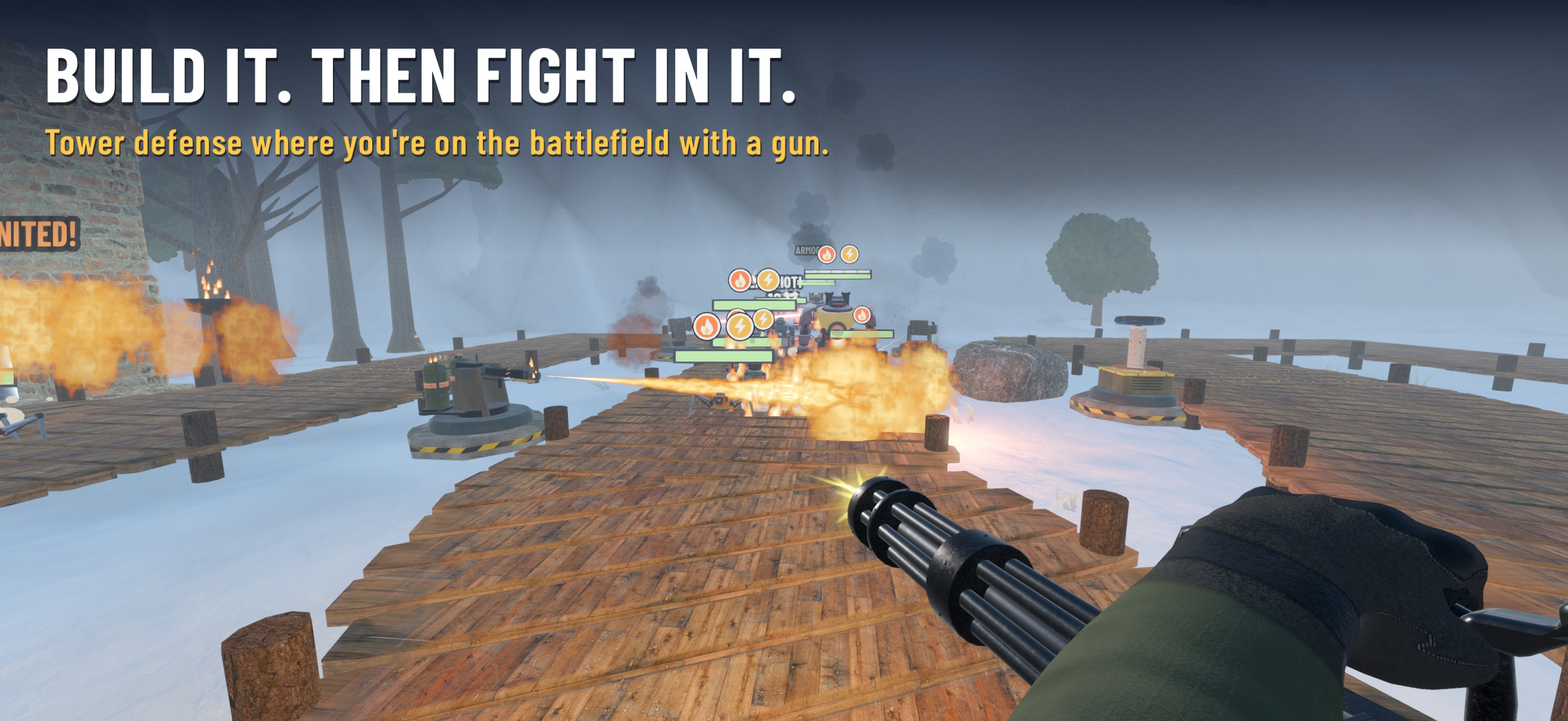
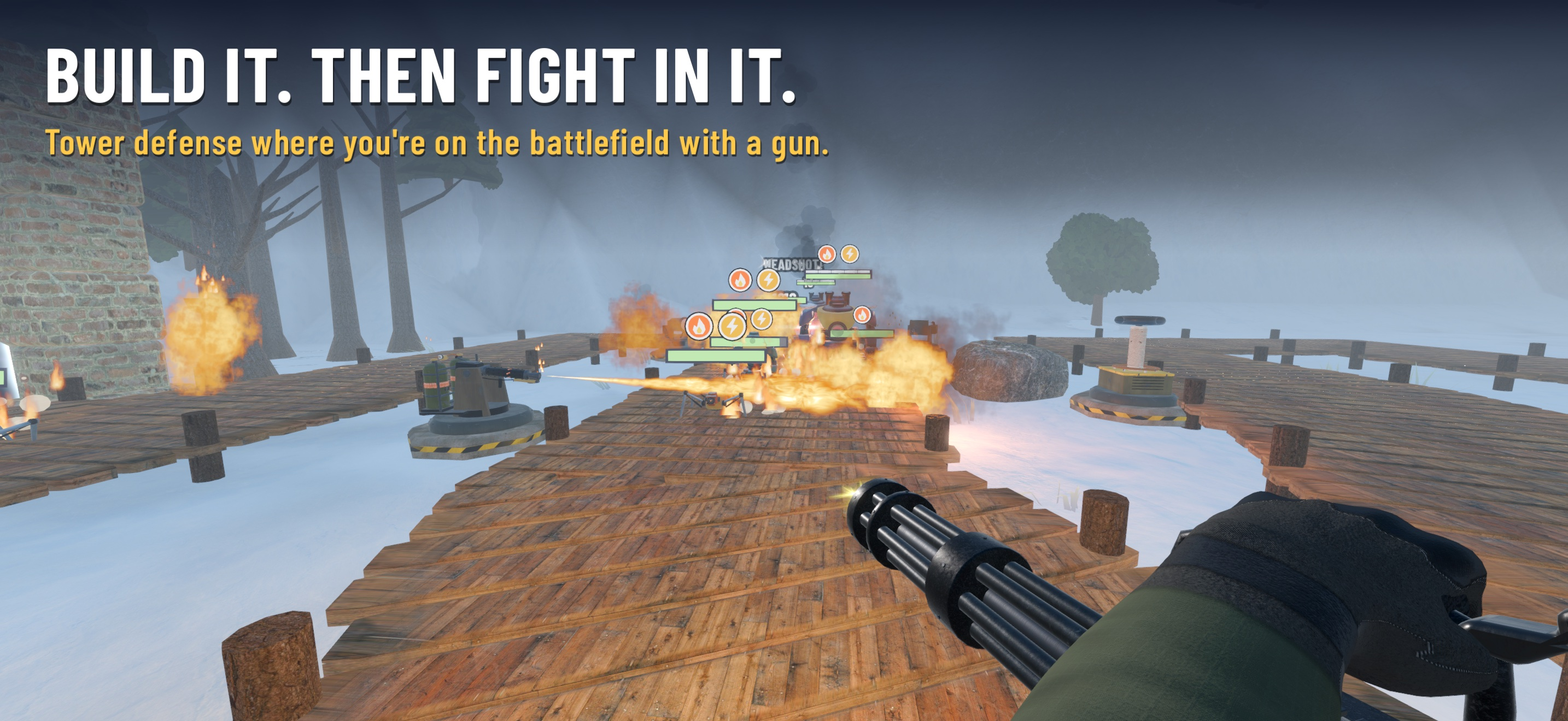
Press kit: gameplay stills with the HUD, and the new screenshot set (2 is the fight with the HUD on)

diff --git a/press/index.html b/press/index.html
@@ -62,31 +62,40 @@ video, .shots img { width: 100%; height: auto; display: block; border-radius: 10
 <figure><video src="keep.mp4" poster="keep_poster.jpg" controls playsinline preload="metadata"></video><figcaption>Keep: air strikes, artillery, Cryo Burst and the Missile Silo</figcaption></figure>
 </div>
 
+<h2>As you play it</h2>
+<p class="note">Real play on iPhone, the HUD and touch controls as players see them. Stills from the app previews, 1920×886.</p>
+<div class="shots">
+<figure><a href="play_road.jpg"><img src="play_road.jpg" alt="A crowd marching down the road into the turrets' fire, the HUD and touch controls on" loading="lazy"></a><figcaption>Your gun among the turrets as a crowd marches in</figcaption></figure>
+<figure><a href="play_javelin.jpg"><img src="play_javelin.jpg" alt="The Javelin's seeker locked onto a Siege Colossus" loading="lazy"></a><figcaption>The Javelin's seeker locked onto a Siege Colossus</figcaption></figure>
+<figure><a href="play_cover.jpg"><img src="play_cover.jpg" alt="Firing from behind sandbags as a gun machine shoots back" loading="lazy"></a><figcaption>Normal and Hard: they shoot back, so you take cover</figcaption></figure>
+<figure><a href="play_flame.jpg"><img src="play_flame.jpg" alt="The Flame Projector setting a crowd alight in the fog" loading="lazy"></a><figcaption>The Flame Projector, beside a turret, in the fog</figcaption></figure>
+</div>
+
 <h2>Screenshots</h2>
 <p class="note">Tap one for the full size.</p>
 <h3>iPhone <span class="note">2868×1320</span></h3>
 <div class="shots">
 <a href="iphone_01_hero.jpg"><img src="iphone_01_hero.jpg" alt="Build it. Then fight in it." loading="lazy"></a>
-<a href="iphone_02_boss.jpg"><img src="iphone_02_boss.jpg" alt="Take down the bosses" loading="lazy"></a>
-<a href="iphone_03_boarders.jpg"><img src="iphone_03_boarders.jpg" alt="They storm your keep" loading="lazy"></a>
-<a href="iphone_04_chute.jpg"><img src="iphone_04_chute.jpg" alt="Jump into the fight" loading="lazy"></a>
-<a href="iphone_05_air.jpg"><img src="iphone_05_air.jpg" alt="Shoot down air raids" loading="lazy"></a>
-<a href="iphone_06_traps.jpg"><img src="iphone_06_traps.jpg" alt="12 traps for the road" loading="lazy"></a>
-<a href="iphone_07_reaper.jpg"><img src="iphone_07_reaper.jpg" alt="More firepower from the keep" loading="lazy"></a>
-<a href="iphone_08_world.jpg"><img src="iphone_08_world.jpg" alt="90 levels in 18 worlds" loading="lazy"></a>
+<a href="iphone_02_fight.jpg"><img src="iphone_02_fight.jpg" alt="You're in the fight: the game with its HUD and controls" loading="lazy"></a>
+<a href="iphone_03_boss.jpg"><img src="iphone_03_boss.jpg" alt="Take down the bosses" loading="lazy"></a>
+<a href="iphone_04_boarders.jpg"><img src="iphone_04_boarders.jpg" alt="They storm your keep" loading="lazy"></a>
+<a href="iphone_05_chute.jpg"><img src="iphone_05_chute.jpg" alt="Jump into the fight" loading="lazy"></a>
+<a href="iphone_06_air.jpg"><img src="iphone_06_air.jpg" alt="Shoot down air raids" loading="lazy"></a>
+<a href="iphone_07_traps.jpg"><img src="iphone_07_traps.jpg" alt="12 traps for the road" loading="lazy"></a>
+<a href="iphone_08_reaper.jpg"><img src="iphone_08_reaper.jpg" alt="More firepower from the keep" loading="lazy"></a>
 <a href="iphone_09_storm.jpg"><img src="iphone_09_storm.jpg" alt="Living battlefields" loading="lazy"></a>
 <a href="iphone_10_commander.jpg"><img src="iphone_10_commander.jpg" alt="Rank up your Commander" loading="lazy"></a>
 </div>
 <h3>Mac with Apple silicon <span class="note">2880×1800</span></h3>
 <div class="shots">
 <a href="mac_01_hero.jpg"><img src="mac_01_hero.jpg" alt="Build it. Then fight in it. (Mac)" loading="lazy"></a>
-<a href="mac_02_boss.jpg"><img src="mac_02_boss.jpg" alt="Take down the bosses (Mac)" loading="lazy"></a>
-<a href="mac_03_boarders.jpg"><img src="mac_03_boarders.jpg" alt="They storm your keep (Mac)" loading="lazy"></a>
-<a href="mac_04_chute.jpg"><img src="mac_04_chute.jpg" alt="Jump into the fight (Mac)" loading="lazy"></a>
-<a href="mac_05_air.jpg"><img src="mac_05_air.jpg" alt="Shoot down air raids (Mac)" loading="lazy"></a>
-<a href="mac_06_traps.jpg"><img src="mac_06_traps.jpg" alt="12 traps for the road (Mac)" loading="lazy"></a>
-<a href="mac_07_reaper.jpg"><img src="mac_07_reaper.jpg" alt="More firepower from the keep (Mac)" loading="lazy"></a>
-<a href="mac_08_world.jpg"><img src="mac_08_world.jpg" alt="90 levels in 18 worlds (Mac)" loading="lazy"></a>
+<a href="mac_02_fight.jpg"><img src="mac_02_fight.jpg" alt="You're in the fight: the game with its HUD and controls (Mac)" loading="lazy"></a>
+<a href="mac_03_boss.jpg"><img src="mac_03_boss.jpg" alt="Take down the bosses (Mac)" loading="lazy"></a>
+<a href="mac_04_boarders.jpg"><img src="mac_04_boarders.jpg" alt="They storm your keep (Mac)" loading="lazy"></a>
+<a href="mac_05_chute.jpg"><img src="mac_05_chute.jpg" alt="Jump into the fight (Mac)" loading="lazy"></a>
+<a href="mac_06_air.jpg"><img src="mac_06_air.jpg" alt="Shoot down air raids (Mac)" loading="lazy"></a>
+<a href="mac_07_traps.jpg"><img src="mac_07_traps.jpg" alt="12 traps for the road (Mac)" loading="lazy"></a>
+<a href="mac_08_reaper.jpg"><img src="mac_08_reaper.jpg" alt="More firepower from the keep (Mac)" loading="lazy"></a>
 <a href="mac_09_storm.jpg"><img src="mac_09_storm.jpg" alt="Living battlefields (Mac)" loading="lazy"></a>
 <a href="mac_10_commander.jpg"><img src="mac_10_commander.jpg" alt="Rank up your Commander (Mac)" loading="lazy"></a>
 </div>
